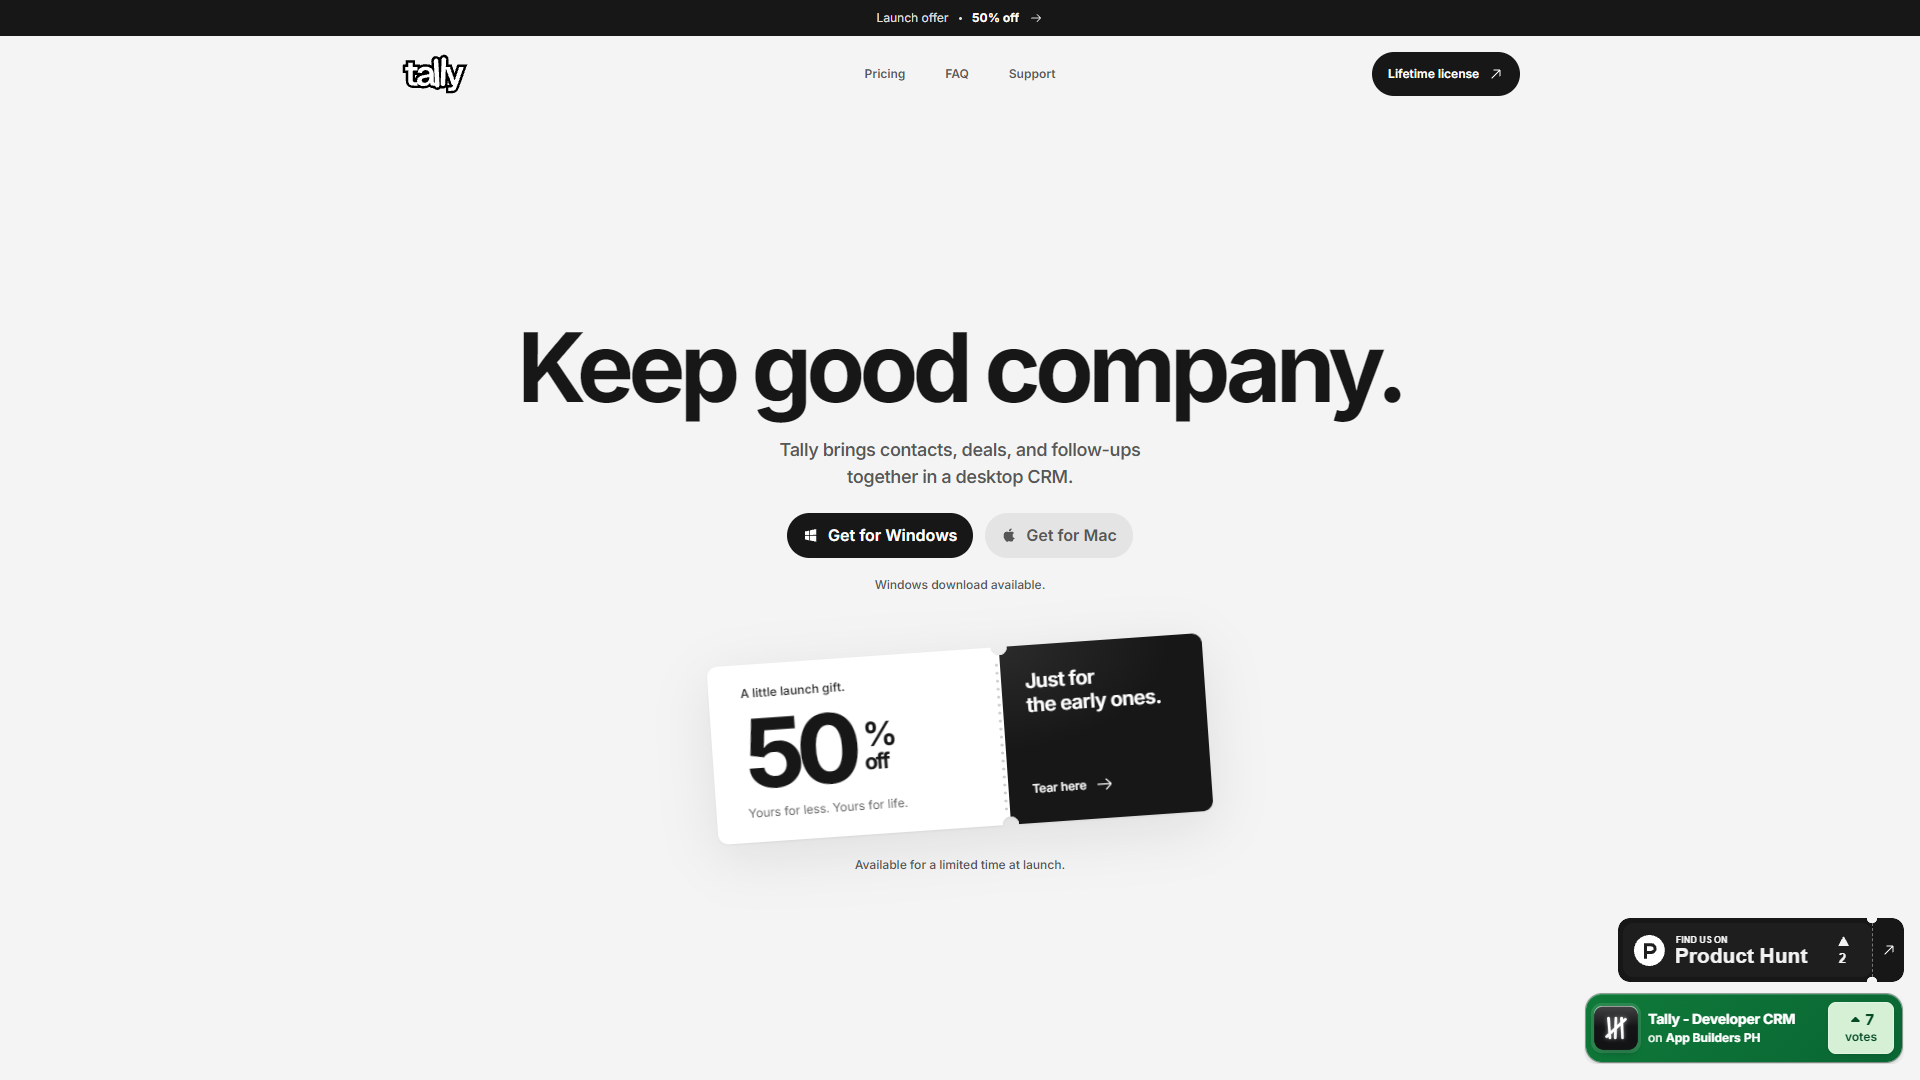
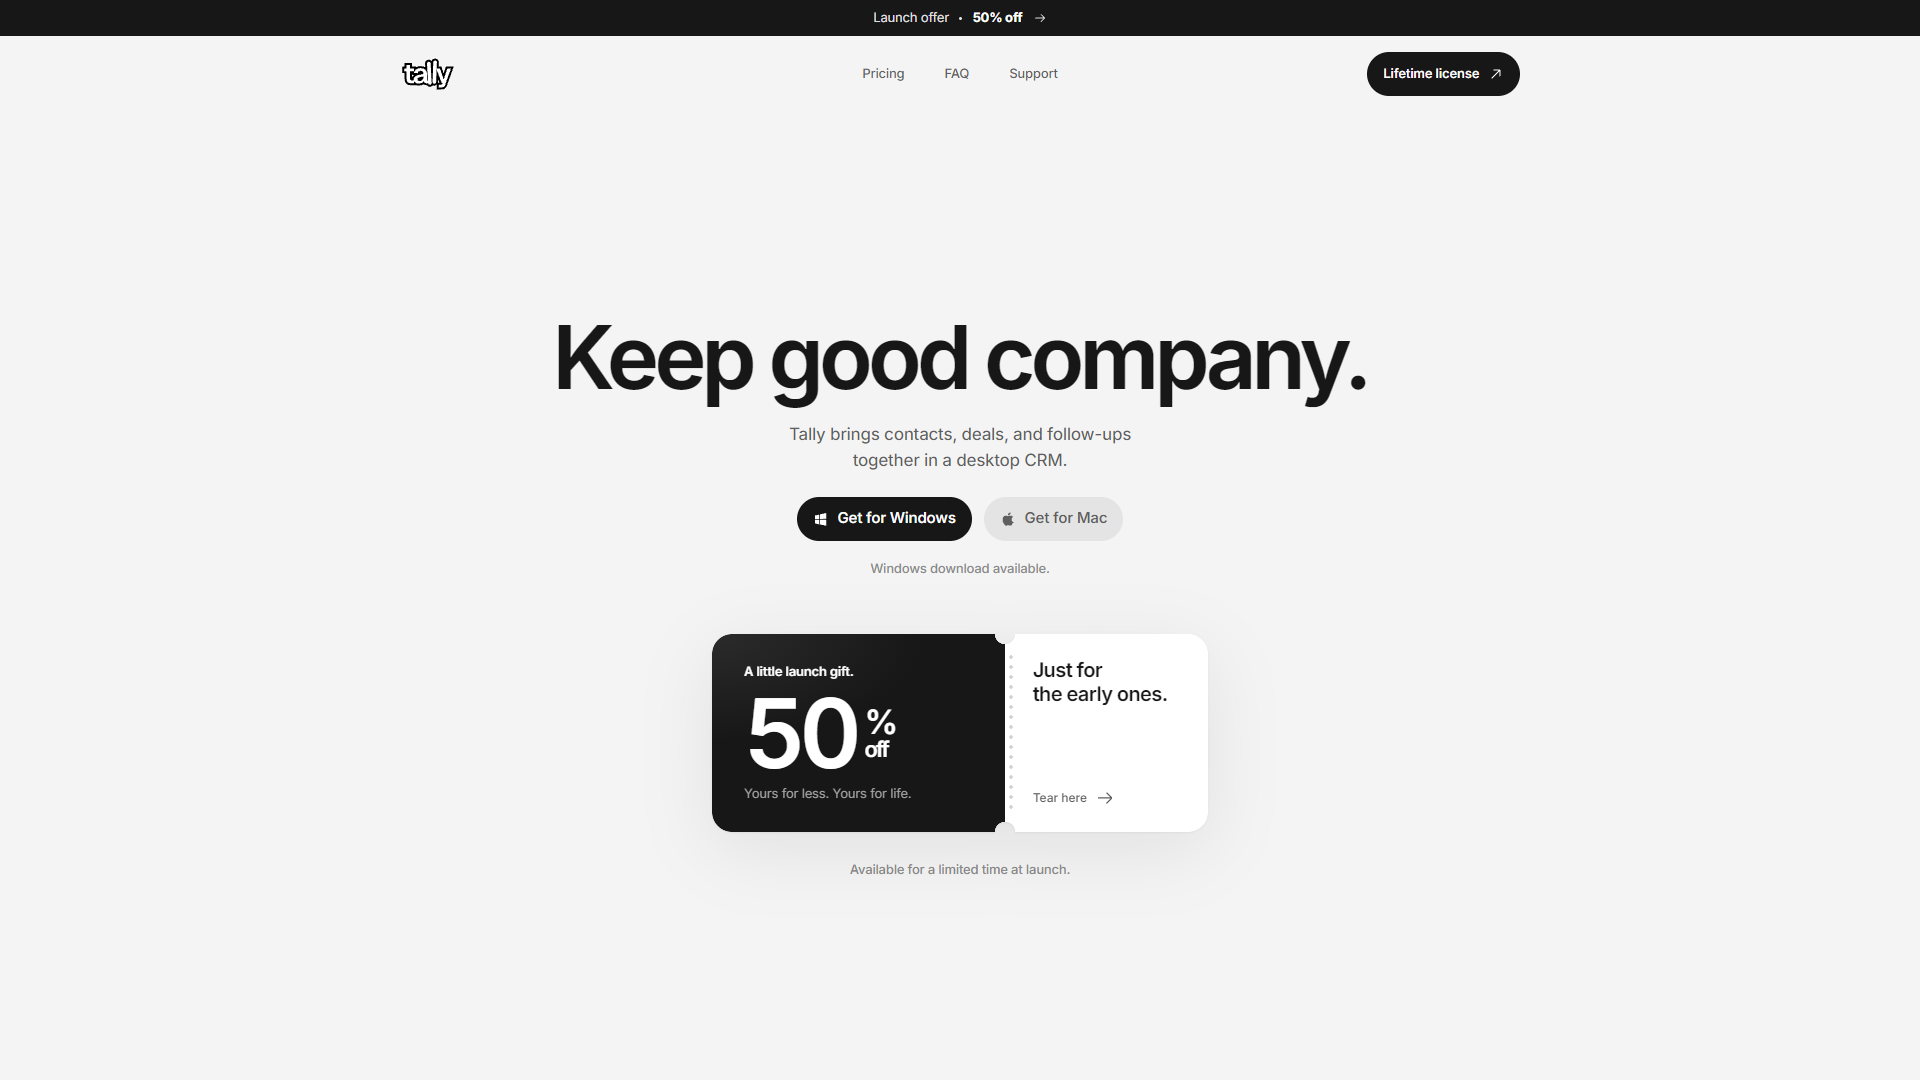
feat: add tally suggestion GIF to Heading component for enhanced visual appeal

diff --git a/src/components/Heading.jsx b/src/components/Heading.jsx
@@ -1,5 +1,6 @@
 import devPfp from "../assets/pfp.jpg";
 import ThemeToggle from "./ThemeToggle";
+import tallyGif from "../assets/projects/tally/tallysuggestion.gif"
 
 function Heading() {
     return (
@@ -109,6 +110,11 @@ function Heading() {
                         </svg>
                         Open to Freelance Work and Internship
                     </span>
+                </div>
+                <div className="mt-24">
+                    <div className="flex justify-center items-center">
+                        <img className="w-100 rounded-4xl" src={tallyGif} alt="" srcset="" />
+                    </div>
                 </div>
             </div>
         </div>
